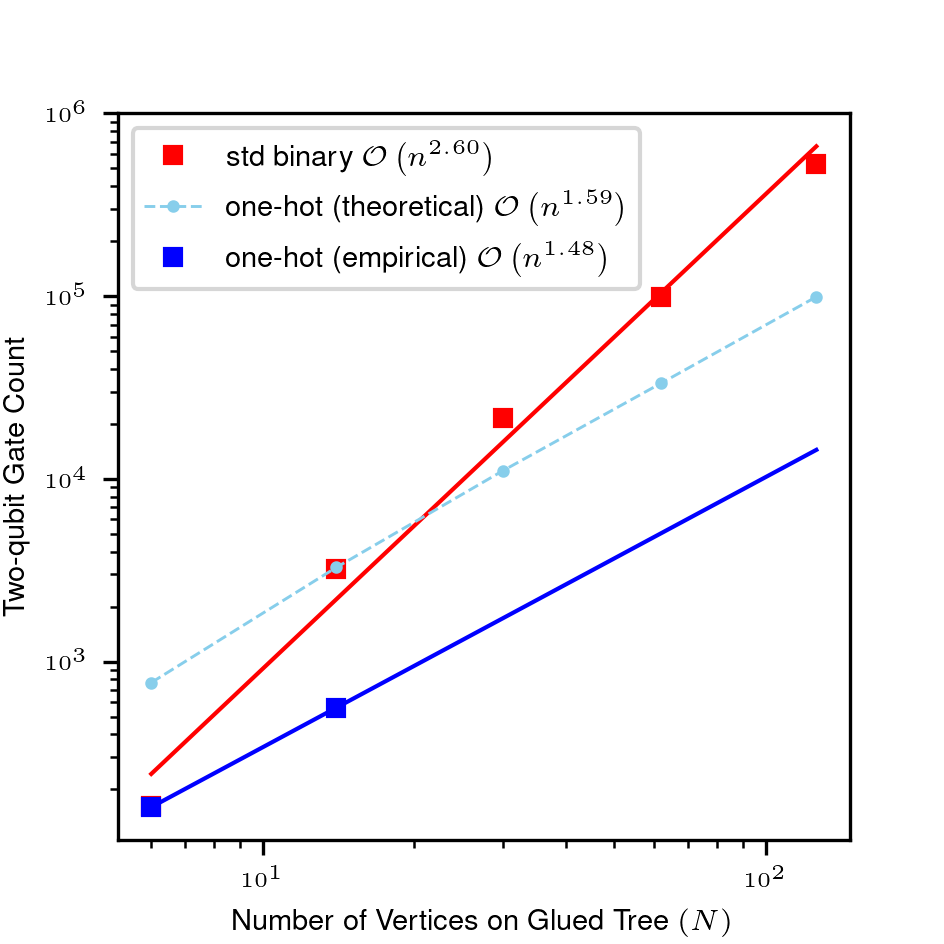
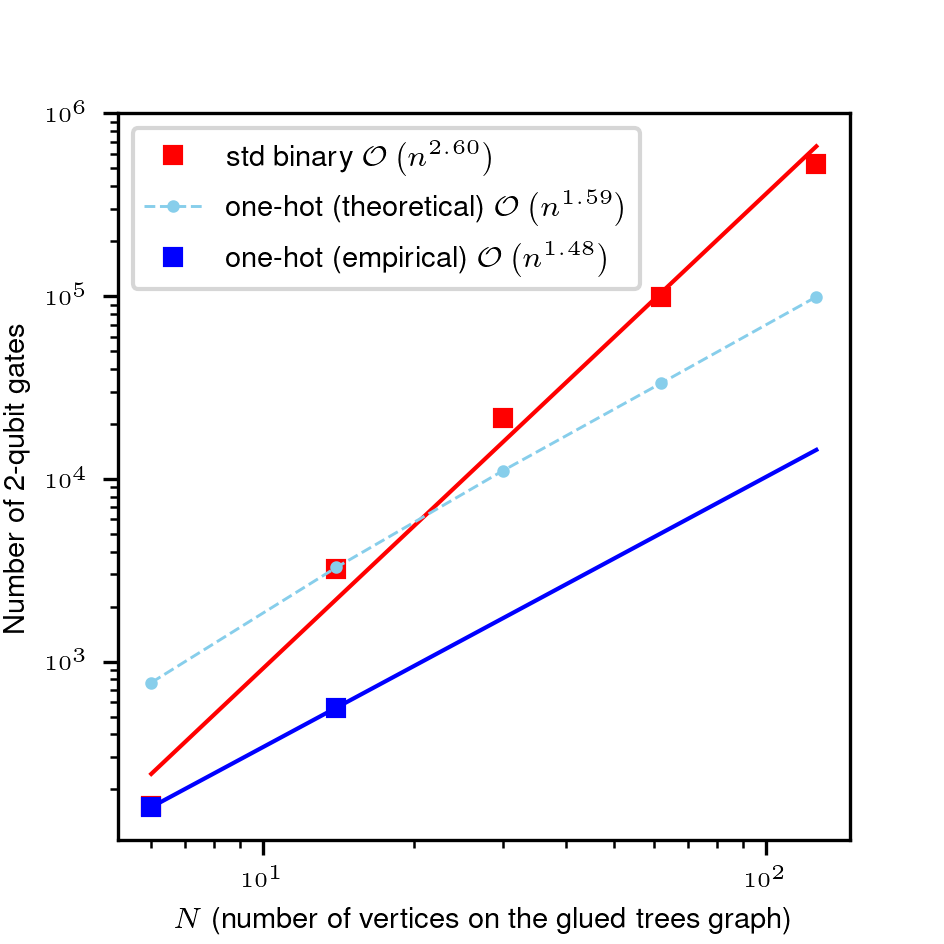
finish fig 4

Changed region(s): [[0.1843, 0.9523, 0.8294, 1.0], [0.0, 0.3379, 0.0307, 0.6758]]

diff --git a/plot_real_space.py b/plot_real_space.py
@@ -5,20 +5,17 @@ from utils import check_and_make_dir
 
 from scipy.optimize import curve_fit
 
-
 DATA_DIR = "resource_data"
-TASK_DIR = "spatial_search"
+TASK_DIR = "real_space"
 
 CURR_DIR = DATA_DIR
 check_and_make_dir(CURR_DIR)
 CURR_DIR = join(CURR_DIR, TASK_DIR)
 check_and_make_dir(CURR_DIR)
 
-dimension = 2
-
-# Load data
 trotter_method = "second_order"
 
+# Load data
 resource_estimation_binary = np.load(join(CURR_DIR, f"std_binary_{trotter_method}.npz"))
 N_vals_binary = resource_estimation_binary['N_vals_binary']
 binary_trotter_steps = resource_estimation_binary['binary_trotter_steps']
@@ -43,6 +40,8 @@ N_vals_one_hot_bound = resource_estimation_one_hot_bound["N_vals_one_hot_bound"]
 one_hot_trotter_steps_bound = resource_estimation_one_hot_bound['one_hot_trotter_steps_bound']
 
 
+from scipy.optimize import curve_fit
+
 # Extrapolation for unary
 if trotter_method == "first_order":
     alpha_unary = 2
@@ -55,48 +54,55 @@ def func(x, c):
     return c * x ** alpha_unary
 
 c = curve_fit(func, N_vals_unary, unary_trotter_steps)[0][0]
-print(f"Quantum walk on spatial search")
+print(f"Real-space simulation")
 print(f"Extrapolated curve: f(x) = {c: 0.3f} * x ^ {alpha_unary : 0.3f}")
 
 N_vals_unary_extrapolated = np.arange(N_vals_unary[-1], N_vals_binary[-1]+1)
 unary_trotter_steps_extrapolated = func(N_vals_unary_extrapolated, c)
-if trotter_method == "first_order" or trotter_method == "randomized_first_order":
-    unary_two_qubit_gate_count_per_trotter_step_extrapolated = dimension * (N_vals_unary_extrapolated - 2) + 1
-    unary_two_qubit_gate_count_per_trotter_step_bound = dimension * (N_vals_unary_bound - 2) + 1
-elif trotter_method == "second_order":
-    unary_two_qubit_gate_count_per_trotter_step_extrapolated = 2 * dimension * (N_vals_unary_extrapolated - 2) + 1
-    unary_two_qubit_gate_count_per_trotter_step_bound = 2 * dimension * (N_vals_unary_bound - 2) + 1
-else:
-    raise ValueError(f"{trotter_method} not valid")
+
+unary_two_qubit_gate_count_per_trotter_step_extrapolated = 2 * (N_vals_unary_extrapolated - 2)
+unary_two_qubit_gate_count_per_trotter_step_bound = 2 * (N_vals_unary_bound - 2)
+
 # Extrapolation for one_hot
 if trotter_method == "first_order":
     alpha_one_hot = 1
 else:
     alpha_one_hot = 1/2
-
+    
 # alpha_one_hot = np.polyfit(np.log(N_vals_one_hot_bound), np.log(one_hot_trotter_steps_bound), deg=1)[0]
 
 def func(x, c):
     return c * x ** alpha_one_hot
 
 c = curve_fit(func, N_vals_one_hot, one_hot_trotter_steps)[0][0]
-print(f"Quantum walk on spatial search")
 print(f"Extrapolated curve: f(x) = {c: 0.3f} * x ^ {alpha_one_hot : 0.3f}")
 
 N_vals_one_hot_extrapolated = np.arange(N_vals_one_hot[-1], N_vals_binary[-1]+1)
 one_hot_trotter_steps_extrapolated = func(N_vals_one_hot_extrapolated, c)
 if trotter_method == "first_order" or trotter_method == "randomized_first_order":
-    one_hot_two_qubit_gate_count_per_trotter_step_extrapolated = 2 * dimension * (N_vals_one_hot_extrapolated - 1) + 1
-    one_hot_two_qubit_gate_count_per_trotter_step_bound = 2 * dimension * (N_vals_one_hot_bound - 1) + 1
+    one_hot_two_qubit_gate_count_per_trotter_step_extrapolated = 2 * (N_vals_one_hot_extrapolated - 1)
+    one_hot_two_qubit_gate_count_per_trotter_step_bound = 2 * (N_vals_one_hot_bound - 1)
 elif trotter_method == "second_order":
-    one_hot_two_qubit_gate_count_per_trotter_step_extrapolated = 4 * dimension * (N_vals_one_hot_extrapolated - 1) + 1
-    one_hot_two_qubit_gate_count_per_trotter_step_bound = 4 * dimension * (N_vals_one_hot_bound - 1) + 1
+    one_hot_two_qubit_gate_count_per_trotter_step_extrapolated = 4 * (N_vals_one_hot_extrapolated - 1)
+    one_hot_two_qubit_gate_count_per_trotter_step_bound = 4 * (N_vals_one_hot_bound - 1)
+
+'''
+plt.plot(N_vals_binary, binary_trotter_steps * binary_two_qubit_gate_count_per_trotter_step, '-o', label="Standard binary", markersize=3)
+# Plot unary
+plt.plot(N_vals_unary, unary_trotter_steps * unary_two_qubit_gate_count_per_trotter_step, '-o', color="yellowgreen", label="Unary", markersize=3)
+plt.plot(N_vals_unary_extrapolated, unary_trotter_steps_extrapolated * unary_two_qubit_gate_count_per_trotter_step_extrapolated, '--', color="yellowgreen", label="Unary extrapolated", markersize=1)
+plt.plot(N_vals_unary_bound, unary_trotter_steps_bound * unary_two_qubit_gate_count_per_trotter_step_bound, '-o', color="green", label="Unary bound", markersize=3)
+
+# Plot one-hot
+plt.plot(N_vals_one_hot, one_hot_trotter_steps * one_hot_two_qubit_gate_count_per_trotter_step, '-o', color="orange", label="One-hot", markersize=3)
+plt.plot(N_vals_one_hot_extrapolated, one_hot_trotter_steps_extrapolated * one_hot_two_qubit_gate_count_per_trotter_step_extrapolated, '--', color='orange', label="One-hot extrapolated", markersize=1)
+plt.plot(N_vals_one_hot_bound, one_hot_trotter_steps_bound * one_hot_two_qubit_gate_count_per_trotter_step_bound, '-o', color="peru", label="One-hot bound", markersize=3)
+'''
 
 
-
-TICK_FONT = 5
-LEGEND_FONT = 6
-LABEL_FONT = 7
+TICK_FONT = 6
+LEGEND_FONT = 8
+LABEL_FONT = 9
 TITLE_FONT = 8
 
 # figure setup
@@ -105,55 +111,34 @@ plt.rcParams['text.usetex'] = True
 plt.figure(figsize=(100/25.4, 100/25.4), dpi=300)
 #plt.subplots_adjust(left=0.05, right=0.95, top=0.8, bottom=0.2)
 
+
 # std binary
 y_data_stdbinary = binary_trotter_steps * binary_two_qubit_gate_count_per_trotter_step
-plt.plot(N_vals_binary, y_data_stdbinary, 's', color="red", label="std binary  " + r'$\mathcal{O}\left(n^{3.60}\right)$', markersize=4)
+plt.plot(N_vals_binary, y_data_stdbinary, 's', color="red", label="std binary  " + r'$\mathcal{O}\left(n^{2.69}\right)$', markersize=4)
 p_std_binary = np.polyfit(np.log(N_vals_binary), np.log(y_data_stdbinary), deg=1)
 plt.plot(N_vals_binary, np.exp(p_std_binary[1]) * N_vals_binary **(p_std_binary[0]), 'r-', linewidth=1)
 print(f"std binary scaling: {p_std_binary[0]}")
 
-# unary theoretical worst bound
-y_data_unary_bound = unary_trotter_steps_bound * unary_two_qubit_gate_count_per_trotter_step_bound
-p_unary_bound = np.polyfit(np.log(N_vals_unary_bound), np.log(y_data_unary_bound), deg=1)
-C_unary_bound = y_data_unary_bound[0] / (N_vals_unary_bound[0] ** p_unary_bound[0])
-plt.plot(N_vals_unary_bound, C_unary_bound * N_vals_unary_bound **(p_unary_bound[0]), '--o', color="skyblue", label="unary (theoretical)  " + r'$\mathcal{O}\left(n^{3.42}\right)$', markersize=2, linewidth=0.7)
-print(f"unary (theoretical) scaling: {p_unary_bound[0]}")
-
-# unary empirical
-y_data_unary = unary_trotter_steps * unary_two_qubit_gate_count_per_trotter_step
-plt.plot(N_vals_unary, y_data_unary, 's', color="blue", label="unary (empirical)  " + r'$\mathcal{O}\left(n^{3.68}\right)$', markersize=4)
-p_unary = np.polyfit(np.log(N_vals_unary), np.log(y_data_unary), deg=1)
-plt.plot(N_vals_unary_bound, np.exp(p_unary[1]) * N_vals_unary_bound **(p_unary[0]), color="blue", linewidth=1)
-print(f"unary (empirical) scaling: {p_unary[0]}")
-
 # one-hot theoretical worst bound
 y_data_one_hot_bound = one_hot_trotter_steps_bound * one_hot_two_qubit_gate_count_per_trotter_step_bound
-#plt.plot(N_vals_one_hot_bound, y_data_one_hot_bound, '--o', color="skyblue", label="one-hot (theoretical)  " + r'$\mathcal{O}\left(n^{2.54}\right)$', markersize=2, linewidth=0.7)
 p_one_hot_bound = np.polyfit(np.log(N_vals_one_hot_bound), np.log(y_data_one_hot_bound), deg=1)
 C_one_hot_bound = y_data_one_hot_bound[0] / (N_vals_one_hot_bound[0] ** p_one_hot_bound[0])
-plt.plot(N_vals_one_hot_bound, C_one_hot_bound * N_vals_one_hot_bound **(p_one_hot_bound[0]), '--o', color="violet", label="one-hot (theoretical)  " + r'$\mathcal{O}\left(n^{2.54}\right)$', markersize=2, linewidth=0.7)
+plt.plot(N_vals_one_hot_bound, C_one_hot_bound * N_vals_one_hot_bound **(p_one_hot_bound[0]), '--o', color="skyblue", label="one-hot (theoretical)  " + r'$\mathcal{O}\left(n^{2.86}\right)$', markersize=2, linewidth=0.7)
 print(f"one-hot (theoretical) scaling: {p_one_hot_bound[0]}")
 
 # one-hot empirical
 y_data_one_hot = one_hot_trotter_steps * one_hot_two_qubit_gate_count_per_trotter_step
-plt.plot(N_vals_one_hot, y_data_one_hot, 's', color="darkviolet", label="one-hot (empirical)  " + r'$\mathcal{O}\left(n^{1.64}\right)$', markersize=4)
+plt.plot(N_vals_one_hot, y_data_one_hot, 's', color="blue", label="one-hot (empirical)  " + r'$\mathcal{O}\left(n^{2.05}\right)$', markersize=4)
 p_one_hot = np.polyfit(np.log(N_vals_one_hot), np.log(y_data_one_hot), deg=1)
-plt.plot(N_vals_binary, np.exp(p_one_hot[1]) * N_vals_binary **(p_one_hot[0]), color='darkviolet', linewidth=1)
+plt.plot(N_vals_binary, np.exp(p_one_hot[1]) * N_vals_binary **(p_one_hot[0]), color='blue', linewidth=1)
 print(f"one-hot (empirical) scaling: {p_one_hot[0]}")
 
 plt.xscale('log')
 plt.yscale('log')
 plt.legend(loc='upper left', fontsize=LEGEND_FONT, frameon=True, facecolor='white')
 plt.ylabel("Number of 2-qubit gates", fontsize=LABEL_FONT)
-plt.xlabel(r"$N$" + " (number of nodes per edge)", fontsize=LABEL_FONT)
-x_tick_labels = []
-for i in range(3, 16):
-    x_tick_labels.append(f'{i}')
-#print(x_tick_labels)
-plt.xticks(ticks=np.arange(3, 16), 
-           labels=x_tick_labels,
-           rotation='horizontal', 
-           fontsize=TICK_FONT)
+plt.xlabel(r"$d$" + " (number of levels in a subsystem)", fontsize=LABEL_FONT)
+plt.xticks(fontsize=TICK_FONT)
 plt.yticks(fontsize=TICK_FONT)
 #plt.show()
-plt.savefig('spatial_search_2d_resource.png', dpi=300)
+plt.savefig('real_space_resource.png', dpi=300)

diff --git a/real_space_sim/QuEra/RealSpace3Dbar.m b/real_space_sim/QuEra/RealSpace3Dbar.m
@@ -1,0 +1,68 @@
+load("data_quera.mat")
+
+n = 6;
+N = n + 1;
+
+
+%-- Set default options --%
+set(0,'DefaultAxesFontSize', 10, ...
+      'DefaultAxesFontName', 'Helvetica',...
+      'DefaultAxesLineWidth', 1.0);
+
+%% Ideal subplots
+
+for i = 1:3
+    figure(i);
+   
+    time = end_times(i);
+    z_data = reshape(ideal_data(i,:,:), N, N);
+    b = bar3(z_data);
+    zlim([0 250])    % Set Z-axis range
+    ax = gca;
+    ax.FontSize = 10;
+    %ax.XTickLabel = {'|00001\rangle','|00010\rangle','|00100\rangle','|01000\rangle', '|10000\rangle'};
+    %ax.YTickLabel = {'|00001\rangle','|00010\rangle','|00100\rangle','|01000\rangle', '|10000\rangle'};
+    ax.XTickLabelRotation = -30;
+    title_text = sprintf('T = %.1f $$\\mu s$$', time);
+    title(title_text, 'Interpreter', 'latex', 'Fontsize', 16)
+    
+    colormap(summer)
+    clim([0 250])
+    for k = 1:length(b)
+        b(k).CData = b(k).ZData;
+        b(k).FaceColor = 'interp';
+    end
+    colorbar();
+    f = gcf;
+    file_name = sprintf("ideal_%d.png", i);
+    exportgraphics(f,file_name,'Resolution',300)
+end
+
+
+%% IonQ subplots
+
+for i = 1:3
+    figure(i);
+    time = end_times(i);
+    z_data = reshape(quera_data(i,:,:), N, N);
+    b = bar3(z_data);
+    zlim([0 120])    % Set Z-axis range
+    ax = gca;
+    ax.FontSize = 10;
+    %ax.XTickLabel = {'|00001\rangle','|00010\rangle','|00100\rangle','|01000\rangle', '|10000\rangle'};
+    %ax.YTickLabel = {'|00001\rangle','|00010\rangle','|00100\rangle','|01000\rangle', '|10000\rangle'};
+    ax.XTickLabelRotation = -30;
+    title_text = sprintf('T = %.1f $$\\mu s$$', time);
+    title(title_text, 'Interpreter', 'latex', 'Fontsize', 16)
+    
+    colormap(parula)
+    clim([0 120])
+    for k = 1:length(b)
+        b(k).CData = b(k).ZData;
+        b(k).FaceColor = 'interp';
+    end
+    colorbar();
+    f = gcf;
+    file_name = sprintf("quera_%d.png", i);
+    exportgraphics(f,file_name,'Resolution',300)
+end

diff --git a/real_space_sim/IonQ/plot_ionq.py b/real_space_sim/IonQ/plot_ionq.py
@@ -1,0 +1,50 @@
+import numpy as np
+import matplotlib.pyplot as plt
+import matplotlib.gridspec as gridspec
+
+
+plt.figure()
+x = np.linspace(-2, 3, 100)
+potential = 0.5 * x **2 - 0.5 * x
+normalize_c = (1 / np.pi) ** 0.5
+init_state = normalize_c * np.exp(- x**2)
+plt.plot(x, potential, 'r--', label=r'Potential field: $f(x) = \frac{1}{2}x^2 - \frac{1}{2}x$', linewidth=3)
+plt.plot(x, init_state, '-', color='navy', label='Initial wave packet (vacuum state)', linewidth=3)
+plt.xlabel('x', fontsize=14)
+plt.ylabel('y', fontsize=14)
+plt.xticks(fontsize=10)
+plt.yticks(fontsize=10)
+plt.legend(fontsize=12)
+#plt.savefig('real_space_potential.png', dpi=300)
+plt.show()
+
+
+# Load plot data
+with np.load('data.npz') as data:
+    expected_position_analytical = data['expected_position_analytical']
+    ideal_data = data['x_obs_ham_ebd']
+    ionq_data = data['x_obs_ionq']
+    ionq_err = data['x_obs_ionq_err']
+
+T = 5
+a = 1
+b = -1/2
+num_time_points = 21
+t_vals = np.linspace(0, T, num_time_points)
+
+#fig = plt.figure(figsize=(100/25.4, 100/25.4), dpi=300)
+# figure setup
+plt.rcParams['font.family'] = 'Helvetica'
+
+plt.figure()
+plt.plot(t_vals, expected_position_analytical, '-s', color="violet", label="Closed-form solution: " + r"$<\hat{x}>_t = \frac{1}{2}(1 - \cos(t))$", linewidth=1)
+#plt.plot(t_vals, x_obs_ham_ebd, '-o', label="Hamiltonian embedding")
+#plt.plot(t_vals, ideal_data, 'ro', label="Numerical simulation (5-level subsystem)", markersize=5)
+plt.errorbar(t_vals, ionq_data, ionq_err, fmt='--o', color='blue', ecolor='skyblue', label="Experiment on IonQ (one-hot embedding)", capsize=4)
+plt.ylabel(r"Expectation value of position observable $\hat{x}$", fontsize=12)
+plt.xlabel(r"$t$ (evolution time)", fontsize=12)
+plt.xticks(fontsize=8)
+plt.yticks(fontsize=8)
+plt.legend(fontsize=11)
+#plt.savefig('real_space_ionq.png', dpi=300)
+plt.show()

diff --git a/plot_glued_tree.py b/plot_glued_tree.py
@@ -95,10 +95,10 @@ print(f"one-hot (empirical) scaling: {p_onehot[0]}")
 plt.xscale('log')
 plt.yscale('log')
 plt.legend(loc='upper left', fontsize=LEGEND_FONT, frameon=True, facecolor='white')
-plt.ylabel("Two-qubit Gate Count", fontsize=LABEL_FONT)
-plt.xlabel("Number of Vertices on Glued Tree " + r"$(N)$", fontsize=LABEL_FONT)
+plt.ylabel("Number of 2-qubit gates", fontsize=LABEL_FONT)
+plt.xlabel(r"$N$" + " (number of vertices on the glued trees graph)", fontsize=LABEL_FONT)
 plt.xticks(fontsize=TICK_FONT)
 plt.yticks(fontsize=TICK_FONT)
 #plt.grid()
-plt.show()
-#plt.savefig('glued_tree_resource.png', dpi=300)
+#plt.show()
+plt.savefig('glued_tree_resource.png', dpi=300)
